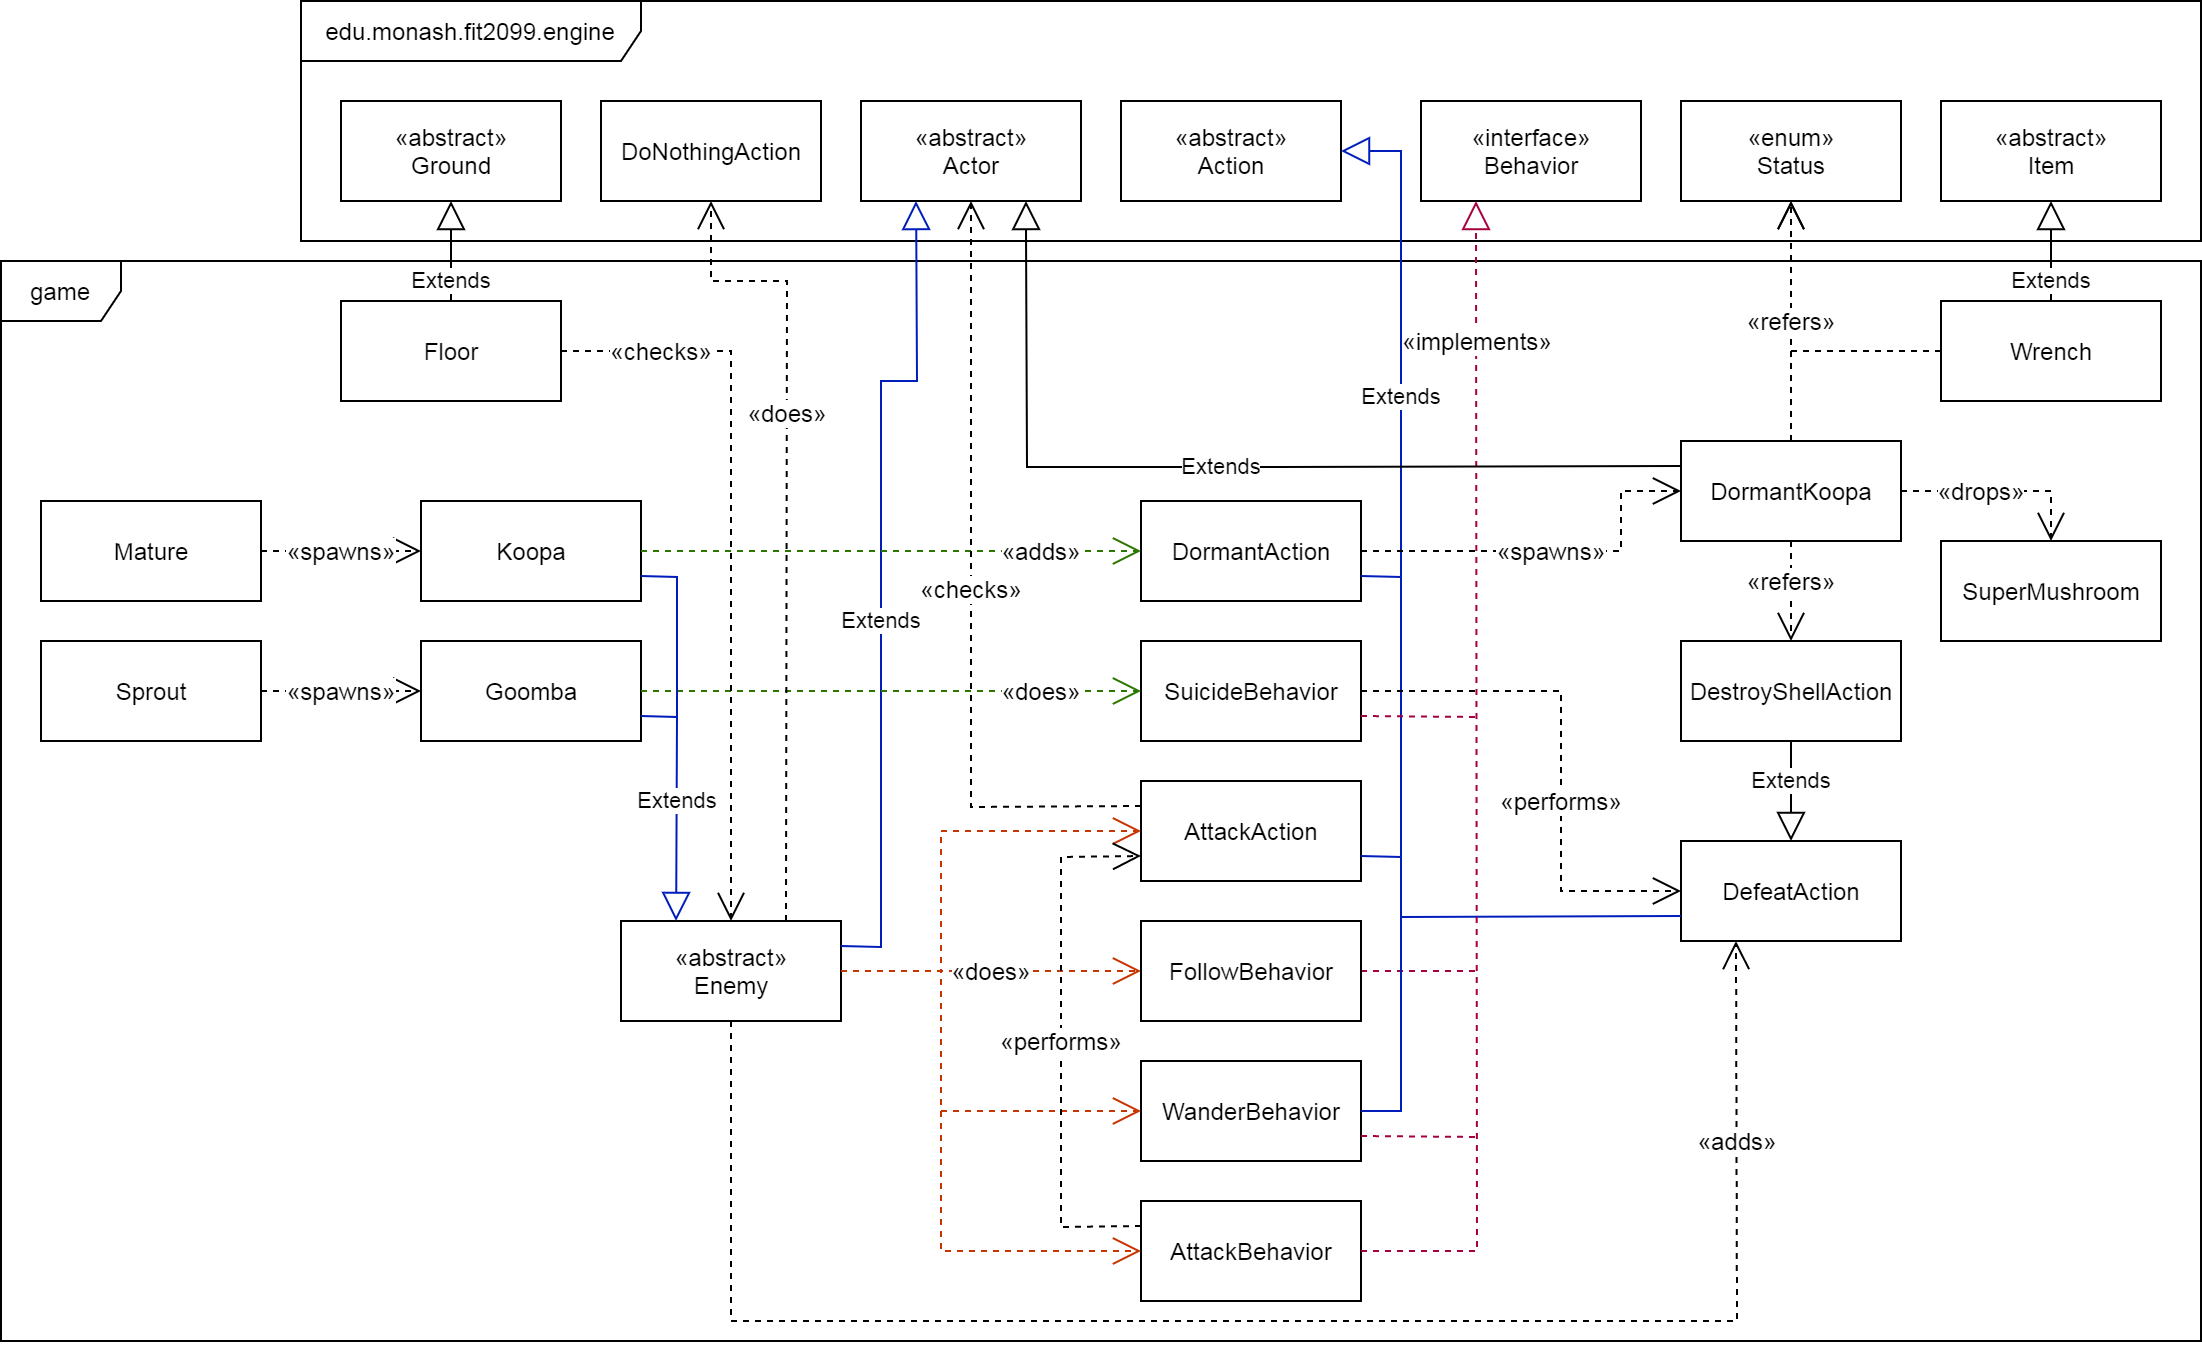
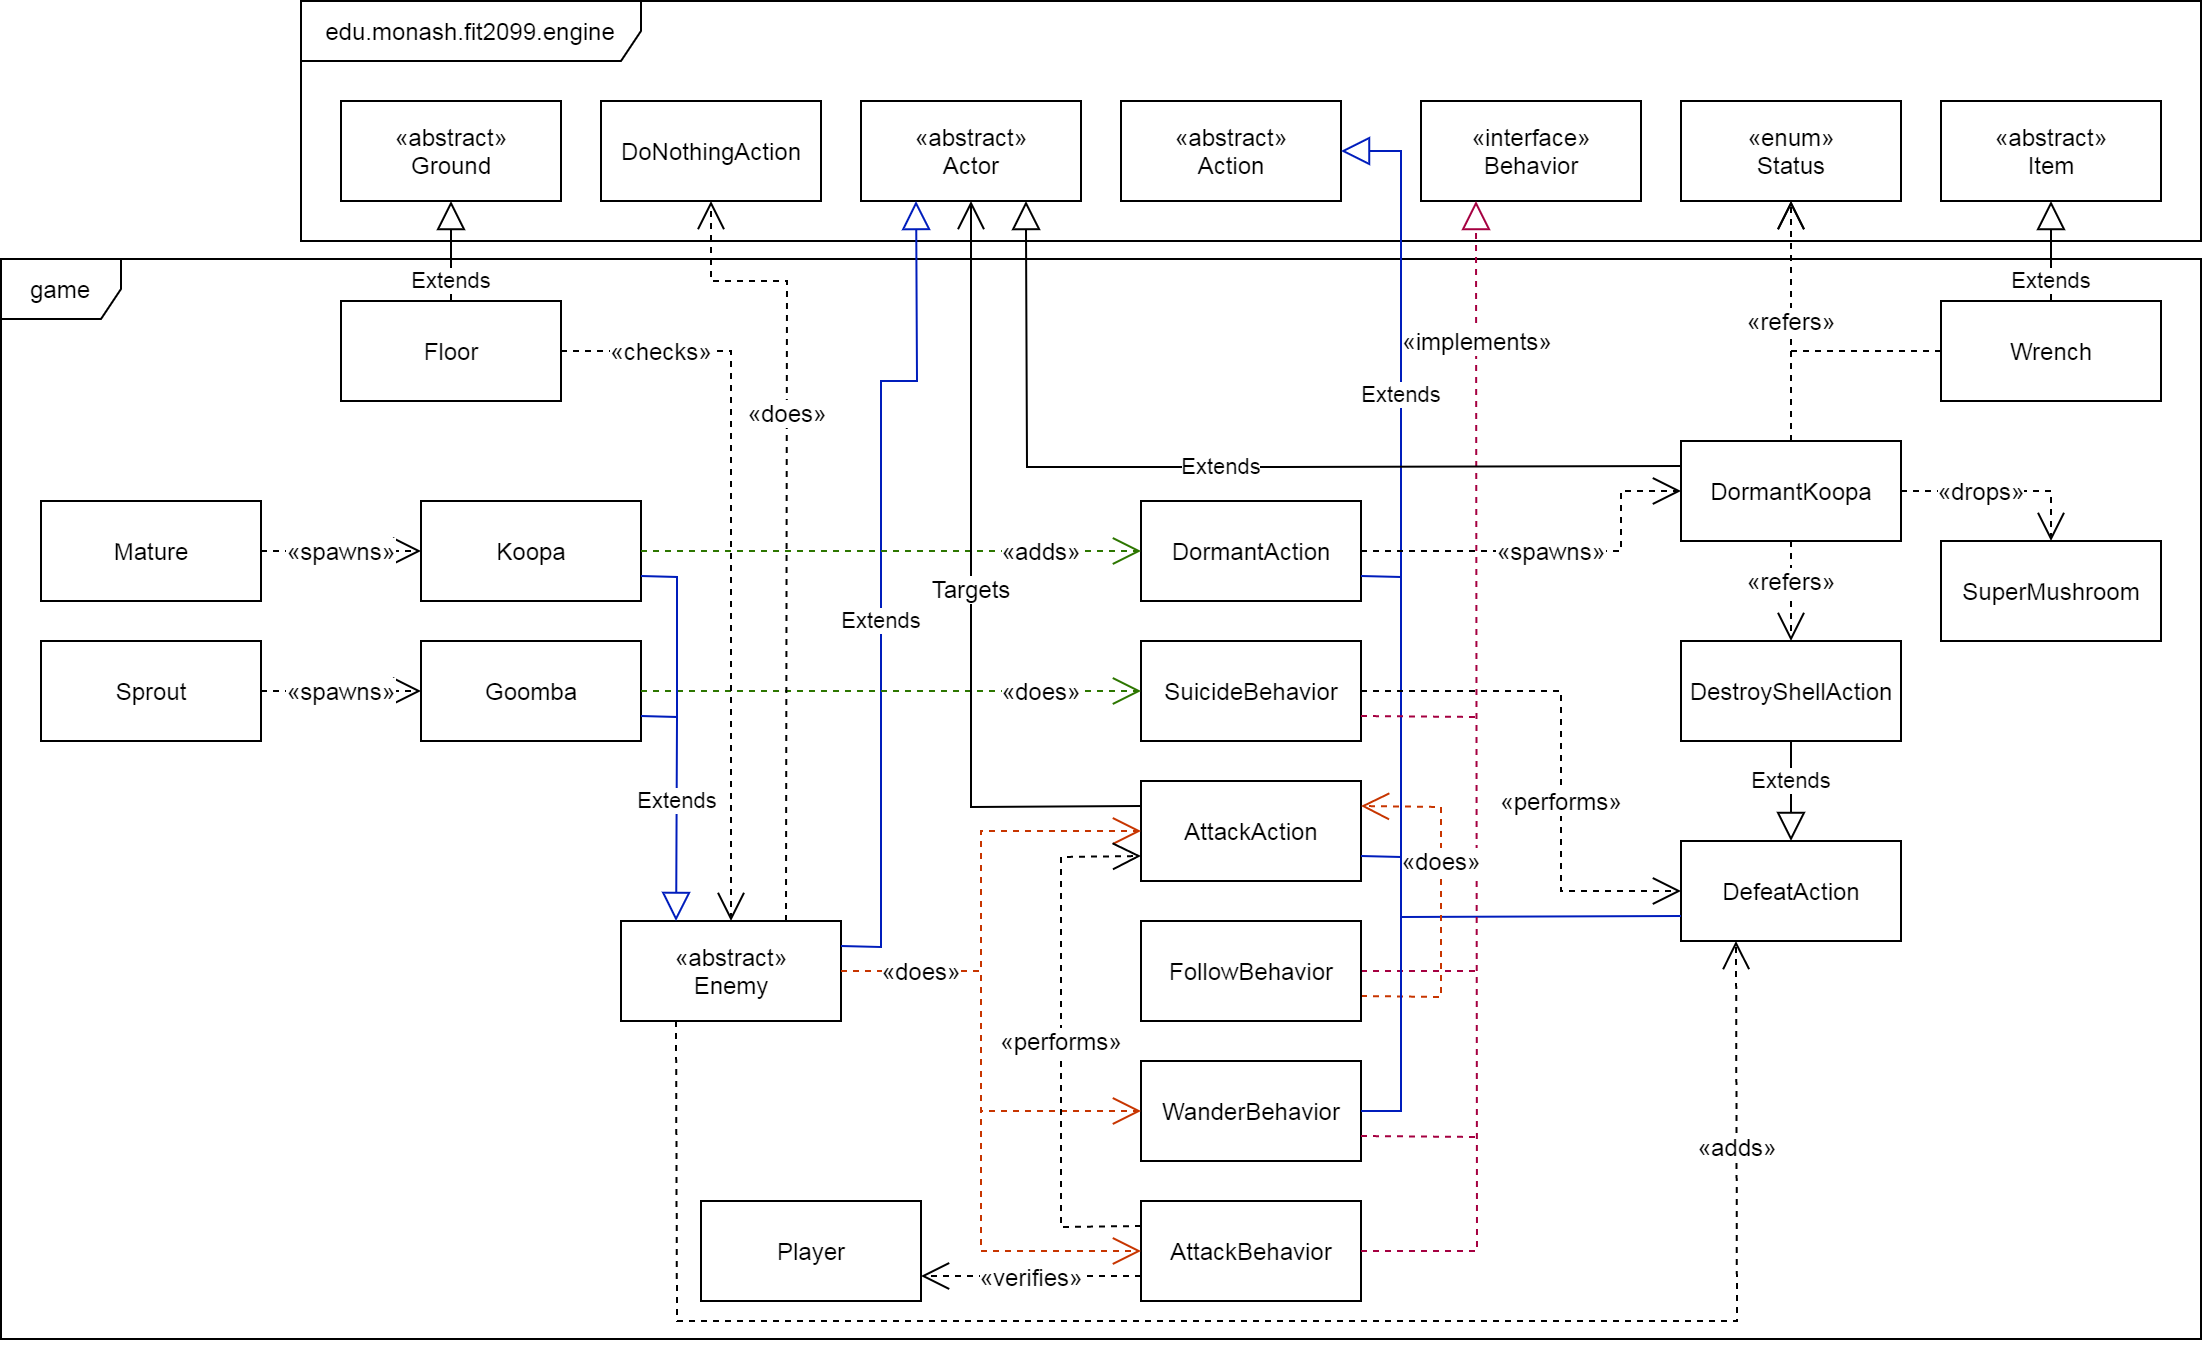
REQ3: finish diagram and implementation

diff --git a/src/game/AttackAction.java b/src/game/AttackAction.java
@@ -4,9 +4,6 @@ import edu.monash.fit2099.engine.actions.Action;
 import edu.monash.fit2099.engine.actors.Actor;
 import edu.monash.fit2099.engine.positions.GameMap;
 import edu.monash.fit2099.engine.weapons.Weapon;
-import game.behaviours.FollowBehaviour;
-
-
 import java.util.Random;
 
 /**
@@ -29,17 +26,17 @@ public class AttackAction extends Action {
      */
     protected Random rand = new Random();
 
-    private final Action actionOnDefeat;
+    private final Action actionOnTargetDefeat;
 
     /**
      * Constructor.
      *
      * @param target the Actor to attack
      */
-    public AttackAction(Actor target, String direction, Action actionOnDefeat) {
+    public AttackAction(Actor target, String direction, Action actionOnTargetDefeat) {
         this.target = target;
         this.direction = direction;
-        this.actionOnDefeat = actionOnDefeat;
+        this.actionOnTargetDefeat = actionOnTargetDefeat;
     }
 
     @Override
@@ -48,24 +45,25 @@ public class AttackAction extends Action {
         if (!(rand.nextInt(100) <= weapon.chanceToHit())) {
             return actor + " misses " + target + ".";
         }
-        if (actor.hasCapability(Status.SUPER_MUSHROOM_EFFECT_ONGOING)){
+        if (actor.hasCapability(Status.SUPER_MUSHROOM_EFFECT_ONGOING)) {
             actor.removeCapability(Status.SUPER_MUSHROOM_EFFECT_ONGOING);
         }
         if (actor.hasCapability(Status.INSTANT_KILL_ENEMY)) {
-            return actor + " instantly kills " + target +"."
-                    + System.lineSeparator() + actionOnDefeat.execute(target, map);
+            return actor + " instantly kills " + target + "."
+                    + System.lineSeparator() + actionOnTargetDefeat.execute(target, map);
         }
-        if(target.hasCapability(Status.IMMUNITY)) {
+        if (target.hasCapability(Status.IMMUNITY)) {
             return target + "is invincible and takes no damage.";
         }
         int damage = weapon.damage();
         String result = actor + " " + weapon.verb() + " " + target + " for " + damage + " damage.";
         target.hurt(damage);
         if (target instanceof Enemy) {
-            ((Enemy) target).behaviours.put(20, new FollowBehaviour(actor));
+            // have the attacker be followed by the enemy it attacks
+            ((Enemy) target).followNewActor(actor);
         }
         if (!target.isConscious()) {
-            result += System.lineSeparator() + actionOnDefeat.execute(target, map);
+            result += System.lineSeparator() + actionOnTargetDefeat.execute(target, map);
         }
         return result;
     }

diff --git a/src/game/Enemy.java b/src/game/Enemy.java
@@ -6,20 +6,20 @@ import edu.monash.fit2099.engine.actions.DoNothingAction;
 import edu.monash.fit2099.engine.actors.Actor;
 import edu.monash.fit2099.engine.displays.Display;
 import edu.monash.fit2099.engine.positions.GameMap;
-import game.managers.ResetManager;
 import game.actions.DefeatAction;
 import game.behaviours.AttackBehaviour;
+import game.behaviours.FollowBehaviour;
 import game.behaviours.WanderBehaviour;
 import game.interfaces.Behaviour;
 import game.interfaces.Resettable;
-
+import game.managers.ResetManager;
 import java.util.Map;
 import java.util.TreeMap;
 
 public abstract class Enemy extends Actor implements Resettable {
 
     protected final Map<Integer, Behaviour> behaviours = new TreeMap<>(); // priority, behaviour
-    protected final Action actionOnDefeat = new DefeatAction();
+    protected Action actionOnSelfDefeat = new DefeatAction();
 
     /**
      * Constructor.
@@ -31,13 +31,6 @@ public abstract class Enemy extends Actor implements Resettable {
     public Enemy(String name, char displayChar, int hitPoints) {
         super(name, displayChar, hitPoints);
         this.behaviours.put(10, new AttackBehaviour(new DefeatAction()));
-        this.behaviours.put(30, new WanderBehaviour());
-        ResetManager.getInstance().appendResetInstance(this);
-    }
-
-    public Enemy(String name, char displayChar, int hitPoints, Action defeatAction) {
-        super(name, displayChar, hitPoints);
-        this.behaviours.put(10, new AttackBehaviour(defeatAction));
         this.behaviours.put(30, new WanderBehaviour());
         ResetManager.getInstance().appendResetInstance(this);
     }
@@ -57,9 +50,19 @@ public abstract class Enemy extends Actor implements Resettable {
         ActionList actions = super.allowableActions(otherActor, direction, map);
         // it can be attacked only by the HOSTILE opponent, and this action will not attack the HOSTILE enemy back.
         if (otherActor.hasCapability(Status.HOSTILE_TO_ENEMY)) {
-            actions.add(new AttackAction(this, direction, actionOnDefeat));
+            actions.add(new AttackAction(this, direction, actionOnSelfDefeat));
         }
         return actions;
+    }
+
+    /**
+     * Swap to a new actor to follow.
+     *
+     * @param target the new actor to follow.
+     */
+    public void followNewActor(Actor target) {
+        // relies on the fact that behaviors is a map - 20 being the slot for a single FollowBehavior
+        behaviours.put(20, new FollowBehaviour(target));
     }
 
     /**

diff --git a/src/game/behaviours/AttackBehaviour.java b/src/game/behaviours/AttackBehaviour.java
@@ -2,24 +2,33 @@ package game.behaviours;
 
 import edu.monash.fit2099.engine.actions.Action;
 import edu.monash.fit2099.engine.actors.Actor;
+import edu.monash.fit2099.engine.positions.Exit;
 import edu.monash.fit2099.engine.positions.GameMap;
-import game.interfaces.Behaviour;
 import game.AttackAction;
+import game.Enemy;
+import game.actors.Player;
+import game.interfaces.Behaviour;
 
 public class AttackBehaviour implements Behaviour {
 
-    private final Action actionOnDefeat;
+    private final Action actionOnTargetDefeat;
 
-    public AttackBehaviour(Action actionOnDefeat) {
-        this.actionOnDefeat = actionOnDefeat;
+    public AttackBehaviour(Action actionOnTargetDefeat) {
+        this.actionOnTargetDefeat = actionOnTargetDefeat;
     }
 
-    // TODO: develop and use it to attack the player automatically.
     @Override
     public Action getAction(Actor actor, GameMap map) {
-        String direction = "North West";
-        if (true) {
-            return new AttackAction(actor, direction, actionOnDefeat);
+        // search for a Player in the actor's vicinity, and attack it
+        for (Exit exit : map.locationOf(actor).getExits()) {
+            Actor target = exit.getDestination().getActor();
+            if (target instanceof Player) {
+                if (actor instanceof Enemy) {
+                    // if Enemy, aggressively follow after the player
+                    ((Enemy) actor).followNewActor(target);
+                }
+                return new AttackAction(target, exit.getName(), actionOnTargetDefeat);
+            }
         }
         return null;
     }

diff --git a/src/game/actors/DormantKoopa.java b/src/game/actors/DormantKoopa.java
@@ -14,14 +14,14 @@ public class DormantKoopa extends Actor {
 
     public DormantKoopa() {
         super("Dormant Koopa", 'D', 9999); // arbitrary amounts of health.
-        this.getInventory().add(new SuperMushroom());
+        this.addItemToInventory(new SuperMushroom());
     }
 
     @Override
     public ActionList allowableActions(Actor otherActor, String direction, GameMap map) {
         final ActionList actions = super.allowableActions(otherActor, direction, map);
         if (otherActor.hasCapability(Status.BREAKS_KOOPA_SHELL)) {
-            actions.add(new DestroyShellAction());
+            actions.add(new DestroyShellAction(this));
         }
         return actions;
     }

diff --git a/src/game/actions/DestroyShellAction.java b/src/game/actions/DestroyShellAction.java
@@ -5,9 +5,15 @@ import edu.monash.fit2099.engine.positions.GameMap;
 
 public class DestroyShellAction extends DefeatAction {
 
+    private final Actor target;
+
+    public DestroyShellAction(Actor target) {
+        this.target = target;
+    }
+
     @Override
     public String execute(Actor actor, GameMap map) {
-        super.execute(actor, map); // discard the returned string
+        super.execute(target, map); // discard the returned string
         return "Player smashes Koopa's shell with a wrench";
     }
 

diff --git a/src/game/actors/Koopa.java b/src/game/actors/Koopa.java
@@ -8,7 +8,8 @@ public class Koopa extends Enemy {
 
     public Koopa() {
         // DefeatAction is bypassed - if Koopa had droppable items, they will not be dropped
-        super("Koopa", 'k', 100, new DormantAction());
+        super("Koopa", 'k', 100);
+        super.actionOnSelfDefeat = new DormantAction();
     }
 
     @Override

diff --git a/src/game/grounds/Floor.java b/src/game/grounds/Floor.java
@@ -24,7 +24,7 @@ public class Floor extends Ground {
      */
     @Override
     public boolean canActorEnter(Actor actor) {
-        boolean allowEnterFloor = !(actor instanceof Enemy);
+        final boolean allowEnterFloor = !(actor instanceof Enemy);
         return allowEnterFloor && super.canActorEnter(actor);
     }
 

diff --git a/src/game/weapons/Wrench.java b/src/game/weapons/Wrench.java
@@ -9,7 +9,7 @@ public class Wrench extends WeaponItem implements TradableItem {
     private final int price;
 
     public Wrench() {
-        super("Wrench", 'p', 50, "verb", 80);
+        super("Wrench", 'p', 50, "wrenches", 80);
         this.addCapability(Status.BREAKS_KOOPA_SHELL);
         this.price = 200;
     }
